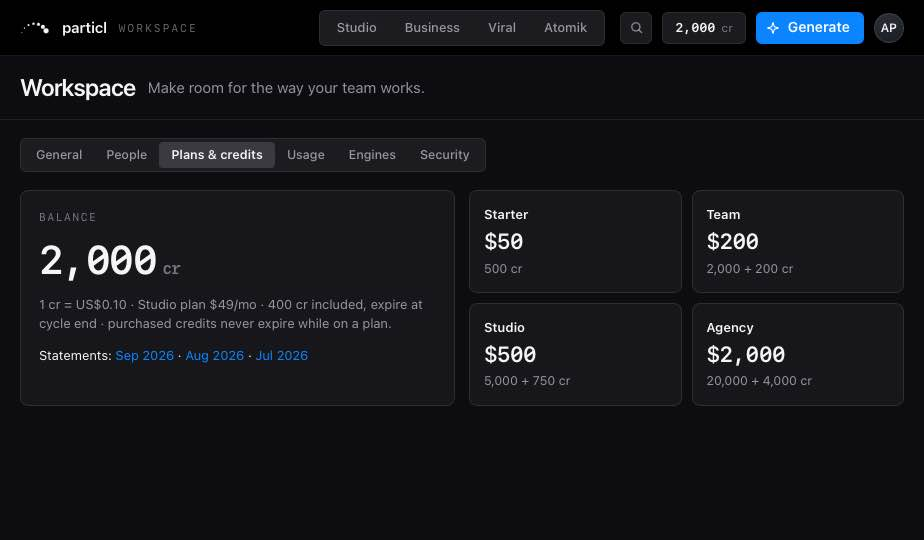
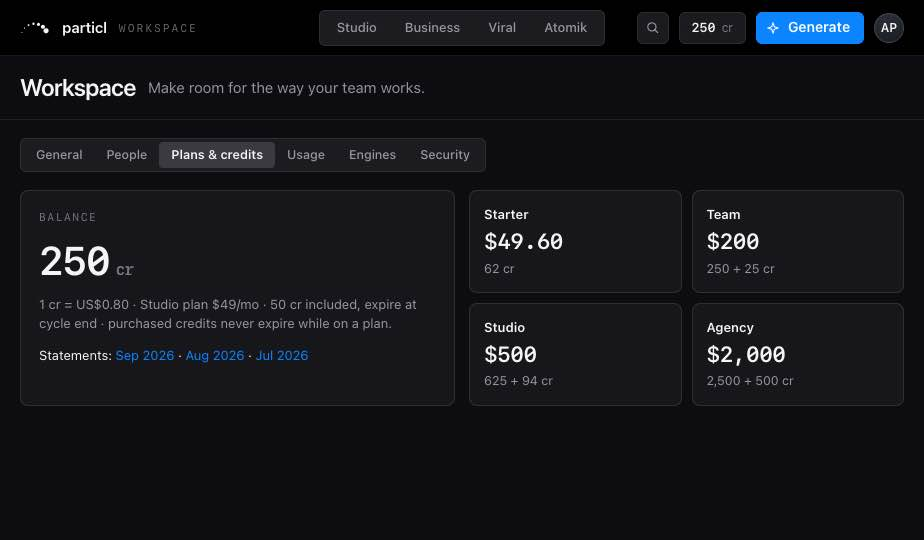
Site: Plans & credits screenshot at US$0.80 a credit
The public Workspace page shows Workspace > Plans & credits as a capture
of the Particl Suites prototype, and it still showed the US$0.10 price.
Re-shot at the figures in code:

- 1 cr = US$0.80 (DEFAULT_CREDIT_USD, lib/creditTerms.ts)
- balance 250 cr, the prototype's 2,000 cr at US$0.10 restated by value,
  in the header pill and the balance
- Studio plan $49/mo, 50 cr included (DEFAULT_PLANS, lib/plans.ts)
- packs (lib/packs.ts): Starter $49.60 / 62 cr, Team $200 / 250 + 25 cr,
  Studio $500 / 625 + 94 cr, Agency $2,000 / 2,500 + 500 cr

The prototype's Plans & credits figures, its balance and the header
pill's title are updated to match. No other screen's design changes.

Captured at 924x540 in headless Chrome, at 1x, from the prototype
revision the site's other screenshots were taken from (32b0a433) with
the same four edits, and encoded like the rest of the set. Only the
figures differ from the previous image. The alt text carries no figure.

diff --git a/design/particl-suites/Particl Suites.dc.html b/design/particl-suites/Particl Suites.dc.html
@@ -47,7 +47,7 @@ input::placeholder,textarea::placeholder{color:rgba(235,235,245,0.35)}
     </div>
     <div style="position:relative;display:flex;align-items:center;gap:10px;justify-self:end;min-width:0">
       <button onClick="{{ openPalette }}" aria-label="Search (⌘K)" title="Search · ⌘K" style="width:32px;height:32px;border-radius:6px;display:grid;place-items:center;color:rgba(235,235,245,0.6);background:#1B1B1F;border:1px solid rgba(255,255,255,0.08)" style-hover="color:#F5F5F7;background:#26262B">{{ searchIcon }}</button>
-      <button onClick="{{ goCredits }}" title="1 cr = US$0.10" style="height:32px;padding:0 12px;border-radius:6px;display:flex;align-items:center;gap:6px;white-space:nowrap;background:#1B1B1F;border:1px solid rgba(255,255,255,0.08)" style-hover="background:#26262B"><span style="font-family:ui-monospace,'SF Mono',Menlo,monospace;font-size:13px;font-weight:600">{{ creditsLabel }}</span><span style="color:rgba(235,235,245,0.45);font-size:12px">cr</span></button>
+      <button onClick="{{ goCredits }}" title="1 cr = US$0.80" style="height:32px;padding:0 12px;border-radius:6px;display:flex;align-items:center;gap:6px;white-space:nowrap;background:#1B1B1F;border:1px solid rgba(255,255,255,0.08)" style-hover="background:#26262B"><span style="font-family:ui-monospace,'SF Mono',Menlo,monospace;font-size:13px;font-weight:600">{{ creditsLabel }}</span><span style="color:rgba(235,235,245,0.45);font-size:12px">cr</span></button>
       <sc-if value="{{ hasJobs }}" hint-placeholder-val="{{ false }}"><button onClick="{{ goGen }}" style="height:32px;padding:0 12px;border-radius:6px;display:flex;align-items:center;gap:8px;white-space:nowrap;font-size:13px;background:rgba(10,132,255,0.14);border:1px solid rgba(10,132,255,0.35);color:#6EB4FF;box-shadow:0 0 16px rgba(10,132,255,.25)"><span style="width:7px;height:7px;border-radius:50%;background:#0A84FF;box-shadow:0 0 8px rgba(10,132,255,.9);animation:om-pulse 1.4s ease-in-out infinite"></span>{{ jobsLabel }}</button></sc-if>
       <button onClick="{{ goGen }}" aria-pressed="{{ isGen }}" style="height:32px;padding:0 14px 0 10px;border-radius:6px;display:flex;align-items:center;gap:8px;font-weight:600;font-size:14px;white-space:nowrap;color:#fff;background:linear-gradient(160deg,#4C9DFF,#0A84FF 55%,#0064D6);box-shadow:0 6px 18px rgba(10,132,255,.32),inset 0 1px 0 rgba(255,255,255,.28)" style-hover="filter:brightness(1.08)"><span style="display:inline-flex">{{ sparkIcon }}</span>Generate</button>
       <button onClick="{{ goWorkspace }}" aria-label="Workspace and account" title="Workspace" style="width:30px;height:30px;border-radius:50%;display:grid;place-items:center;font-size:12px;font-weight:600;color:#F5F5F7;background:linear-gradient(160deg,#2B2F37,#1A1D23);border:1px solid rgba(255,255,255,.12);box-shadow:0 0 0 2px #000,0 0 0 3px rgba(10,132,255,.45)">AP</button>
@@ -395,7 +395,7 @@ input::placeholder,textarea::placeholder{color:rgba(235,235,245,0.35)}
             </sc-if>
             <sc-if value="{{ isWsCredits }}" hint-placeholder-val="{{ false }}">
               <div style="display:grid;grid-template-columns:repeat(auto-fit,minmax(min(100%,320px),1fr));gap:14px">
-                <div style="padding:18px;border-radius:8px;display:flex;flex-direction:column;gap:6px;background:linear-gradient(180deg,#1B1B20,#141417);border:1px solid rgba(255,255,255,0.10);box-shadow:inset 0 1px 0 rgba(255,255,255,.05),0 8px 20px rgba(0,0,0,.3)"><span style="font-family:ui-monospace,'SF Mono',Menlo,monospace;font-size:11px;letter-spacing:.14em;text-transform:uppercase;color:rgba(235,235,245,0.45)">Balance</span><span style="font-size:40px;font-weight:600;letter-spacing:-.03em;font-family:ui-monospace,'SF Mono',Menlo,monospace">{{ creditsLabel }}<span style="font-size:16px;color:rgba(235,235,245,0.45);margin-left:6px">cr</span></span><span style="color:rgba(235,235,245,0.6);font-size:13px;line-height:1.5">1 cr = US$0.10 · Studio plan $49/mo · 400 cr included, expire at cycle end · purchased credits never expire while on a plan.</span><span style="font-size:13px;margin-top:6px">Statements: <a href="#">Sep 2026</a> · <a href="#">Aug 2026</a> · <a href="#">Jul 2026</a></span></div>
+                <div style="padding:18px;border-radius:8px;display:flex;flex-direction:column;gap:6px;background:linear-gradient(180deg,#1B1B20,#141417);border:1px solid rgba(255,255,255,0.10);box-shadow:inset 0 1px 0 rgba(255,255,255,.05),0 8px 20px rgba(0,0,0,.3)"><span style="font-family:ui-monospace,'SF Mono',Menlo,monospace;font-size:11px;letter-spacing:.14em;text-transform:uppercase;color:rgba(235,235,245,0.45)">Balance</span><span style="font-size:40px;font-weight:600;letter-spacing:-.03em;font-family:ui-monospace,'SF Mono',Menlo,monospace">{{ creditsLabel }}<span style="font-size:16px;color:rgba(235,235,245,0.45);margin-left:6px">cr</span></span><span style="color:rgba(235,235,245,0.6);font-size:13px;line-height:1.5">1 cr = US$0.80 · Studio plan $49/mo · 50 cr included, expire at cycle end · purchased credits never expire while on a plan.</span><span style="font-size:13px;margin-top:6px">Statements: <a href="#">Sep 2026</a> · <a href="#">Aug 2026</a> · <a href="#">Jul 2026</a></span></div>
                 <div style="display:grid;grid-template-columns:1fr 1fr;gap:10px"><sc-for list="{{ packs }}" as="pk" hint-placeholder-count="4"><button onClick="{{ pk.buy }}" style="padding:14px;border-radius:8px;display:flex;flex-direction:column;gap:2px;background:linear-gradient(180deg,#1B1B20,#141417);border:1px solid rgba(255,255,255,0.10);box-shadow:inset 0 1px 0 rgba(255,255,255,.05),0 8px 20px rgba(0,0,0,.3)" style-hover="background:#1B1B1F"><span style="font-weight:600">{{ pk.name }}</span><span style="font-size:22px;font-weight:600;letter-spacing:-.02em;font-family:ui-monospace,'SF Mono',Menlo,monospace">{{ pk.price }}</span><span style="color:rgba(235,235,245,0.6);font-size:12.5px">{{ pk.cr }}</span></button></sc-for></div>
               </div>
             </sc-if>
@@ -495,7 +495,7 @@ class Component extends DCLogic {
       libTab: props.libraryAssetsFirst ? 'assets' : 'tools', inspTab: 'controls', inspector: props.inspectorDefault !== false, sel: null, selNode: 'scene', projectsOpen: false, projectName: 'Dune Studies', wsTab: 'general',
       mode: 'video', chosen: { video: 'seedance_2_5', image: 'nano_banana_pro', audio: 'eleven_sfx', '3d': 'meshy_3d', analysis: 'brain_activity' }, billing: 'workspace',
       prompt: '', enhanced: null, enhancing: false, autoEnhance: props.autoEnhanceDefault !== false, refs: [], ratio: '16:9', res: '1080p', dur: 5, audio: true, count: 1, preset: null, jobs: [], rFilter: 'all',
-      assets: this.seedAssets(), credits: 2000, enhancer: 'higgsfield', palette: false, query: '', models: false, toast: '', dQuery: '', dFilter: 'all', agentText: '', taken: 0, vw: 1440,
+      assets: this.seedAssets(), credits: 250, enhancer: 'higgsfield', palette: false, query: '', models: false, toast: '', dQuery: '', dFilter: 'all', agentText: '', taken: 0, vw: 1440,
     };
     this._tick = null; this._toastT = null;
   }
@@ -1012,7 +1012,7 @@ class Component extends DCLogic {
       team: [['Akshay Panchal', 'Owner', 'you · 1,204 cr this month'], ['Priya S.', 'Member', '312 cr this month'], ['Rahul M.', 'Member', '88 cr · locked out after 8 tries']].map(([name, role, meta]) => ({ name, role, meta, initials: name.split(' ').map(w => w[0]).join('').slice(0, 2), action: meta.includes('locked') ? 'Unlock' : role === 'Owner' ? '' : 'Promote', run: () => this.toast(name + ': ' + (meta.includes('locked') ? 'lockout cleared' : 'promoted to admin')) })),
       engines: [['ModelArk · Seedance', 'Connected', 'billed on the returned token count · rates snapshot per render', 'done'], ['Higgsfield', 'Connected · verified', 'connected account · 30 models · Soul identity · Marketing Studio · Genjutsu · prompt enhancer', 'done'], ['fal · Kling, Topaz, Flux', 'Connected', 'per-second and per-image rates', 'done'], ['ElevenLabs', 'Connected', 'speech · sound effects · music', 'done'], ['OpenAI', 'Not connected', 'add a key to route GPT Image directly', 'ready']].map(([name, state, meta, st]) => ({ name, state, meta, dot: this.dot(st), action: st === 'done' ? 'Verify' : 'Connect', run: () => this.toast(st === 'done' ? name + ': verified — categories and quotes only, no credentials shown.' : 'Paste the key; it is encrypted and never returned.') })),
       usage: [['Seedance 2.5', 188], ['Kling 3.0', 52], ['Connected account', 46], ['Stills', 19], ['Audio', 7]].map(([name, cr]) => ({ name, cr: cr + ' cr', bar: { display: 'block', height: 8, borderRadius: 999, width: Math.round(cr / 188 * 100) + '%', background: '#0A84FF' } })),
-      packs: [['Starter', '$50', '500 cr'], ['Team', '$200', '2,000 + 200 cr'], ['Studio', '$500', '5,000 + 750 cr'], ['Agency', '$2,000', '20,000 + 4,000 cr']].map(([name, price, cr]) => ({ name, price, cr, buy: () => this.toast(name + ' pack: checkout is not configured in this workspace yet.') })),
+      packs: [['Starter', '$49.60', '62 cr'], ['Team', '$200', '250 + 25 cr'], ['Studio', '$500', '625 + 94 cr'], ['Agency', '$2,000', '2,500 + 500 cr']].map(([name, price, cr]) => ({ name, price, cr, buy: () => this.toast(name + ' pack: checkout is not configured in this workspace yet.') })),
       security: [['Sessions', '2 devices · server-side, hashed', 'sign out everywhere'], ['Password', 'scrypt · 8 tries then a 15-minute lock', 'change'], ['Media access', 'every file behind a session · tenant-scoped URLs', 'policy'], ['Audit', 'every paid submission keeps its claim and receipt', 'export']].map(([name, meta, link]) => ({ name, meta, link })),
       enhancers: [['higgsfield', 'Higgsfield'], ['claude', 'Claude'], ['openai', 'OpenAI']].map(([id, label]) => Object.assign({ label, active: s.enhancer === id, set: () => { this.setState({ enhancer: id }); this.toast('Prompt enhancer: ' + label + ' — every composer now enhances through it.'); } }, this.sel(s.enhancer === id, 4))),
       enhancerNote: ({ higgsfield: 'Higgsfield’s enhance_prompt on the connected account · 1 cr · keeps @citations verbatim.', claude: 'Claude rewrites the idea into subject · setting · camera · light · style · 1 cr.', openai: 'OpenAI (Workspace → Engines key) · 1 cr · same structure, different voice.' })[s.enhancer],
